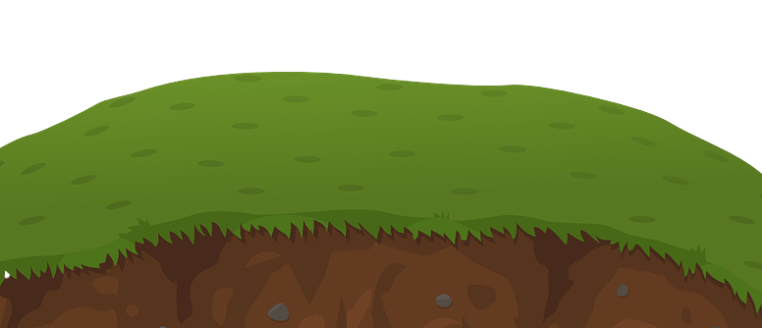
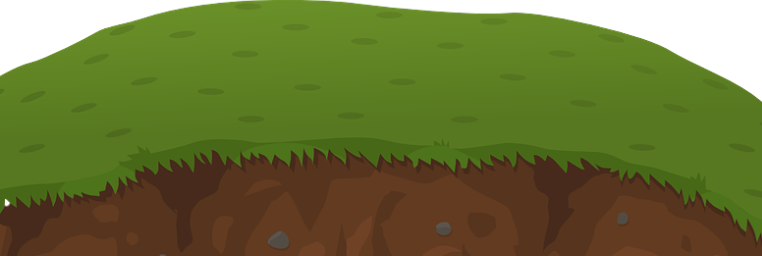
Fix target location and hit area

diff --git a/src/World.js b/src/World.js
@@ -33,14 +33,24 @@ export default class World extends Phaser.Scene {
       .setDisplaySize(width, height)
       .setOrigin(0);
 
-    const target = this.physics.add.staticImage(width / 2, height + 5, 'grass');
     const targetScaledWidth = width * 0.2;
-    target.setSize(targetScaledWidth);
+    const target = this.physics.add.staticImage(width / 2, height, 'grass');
+    // target.setSize(targetScaledWidth);
+
+    setTimeout(() => {
+      target.setSize(target.width, target.height);
+    }, 1000);
+
     target.displayWidth = targetScaledWidth;
+    target.width = targetScaledWidth;
     target.scaleY = target.scaleX;
-    const targetHitArea = this.physics.add.image(target.x, target.y - 60);
-    // targetHitArea.setOrigin(0,0);
-    targetHitArea.body.setCircle(10);
+    // target.y += target.displayHeight * 0.2;
+    const targetHitArea = this.physics.add.image(target.x, target.y - 40);
+    targetHitArea.setOrigin(0,0);
+    targetHitArea.body.setCircle(target.displayWidth);
+    targetHitArea.x = target.getTopLeft().x - target.displayWidth * 0.5;
+    targetHitArea.y = target.getTopLeft().y + target.displayHeight * 0.05;
+    console.log(target.getTopLeft(), targetHitArea.y, height);
     targetHitArea.setDebugBodyColor(0xffff00);
     // const grass = this.matter.add.image(width / 2, height + 15, 'grass');
 

diff --git a/src/Boot.js b/src/Boot.js
@@ -1,5 +1,4 @@
 import Phaser from 'phaser';
-// import images from './assets/*.png';
 
 export default class Boot extends Phaser.Scene {
   constructor () {
@@ -9,14 +8,6 @@ export default class Boot extends Phaser.Scene {
   preload () {
     var bg = this.add.rectangle(400, 300, 400, 30, 0x666666);
     var bar = this.add.rectangle(bg.x, bg.y, bg.width, bg.height, 0xffffff).setScale(0, 1);
-
-    // console.table(images);
-
-    // this.load.image('bg', images.bg);
-    // this.load.image('logo', images.logo);
-    // this.load.image('red', images.red);
-    // this.load.image('grass', images.grass);
-    // this.load.image('grass1', images.grass1);
 
     this.load.image('bg', 'images/bg.png');
     this.load.image('red', 'images/red.png');
@@ -37,8 +28,6 @@ export default class Boot extends Phaser.Scene {
   }
 
   update () {
-    // this.scene.start('menu');
     this.scene.start('world');
-    // this.scene.remove();
   }
 }

diff --git a/src/gameConfig.js b/src/gameConfig.js
@@ -19,7 +19,6 @@ export default {
     arcade: {
       //gravity: false
       debug: true,
-      debugShowBody: true,
       checkCollision: {
         up: false
       }

diff --git a/src/index.html b/src/index.html
@@ -16,7 +16,7 @@
       height: 100%;
     }
 </style>
-<title>Seedling Drop v3</title>
+<title>Seedling Drop Game v3</title>
 
 <body>
   <div id="game"></div>
